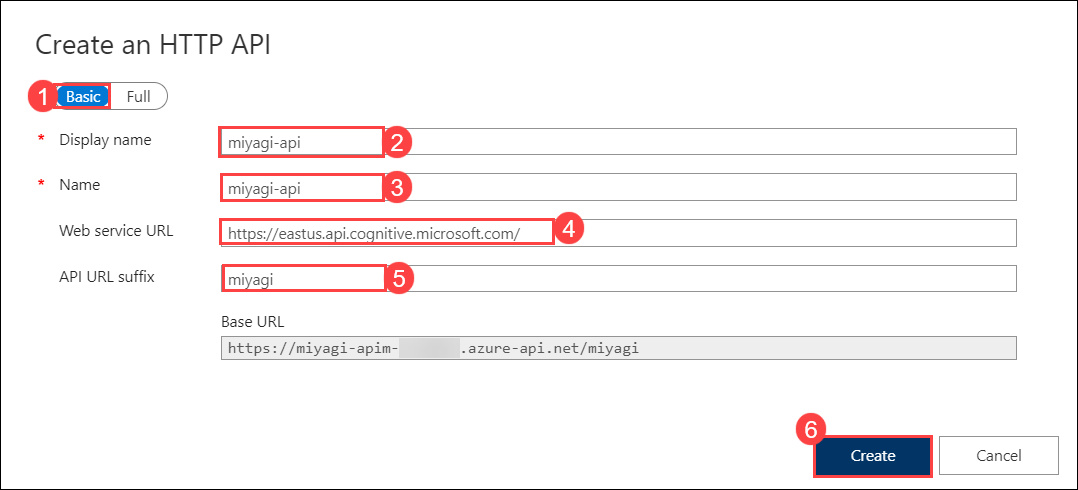
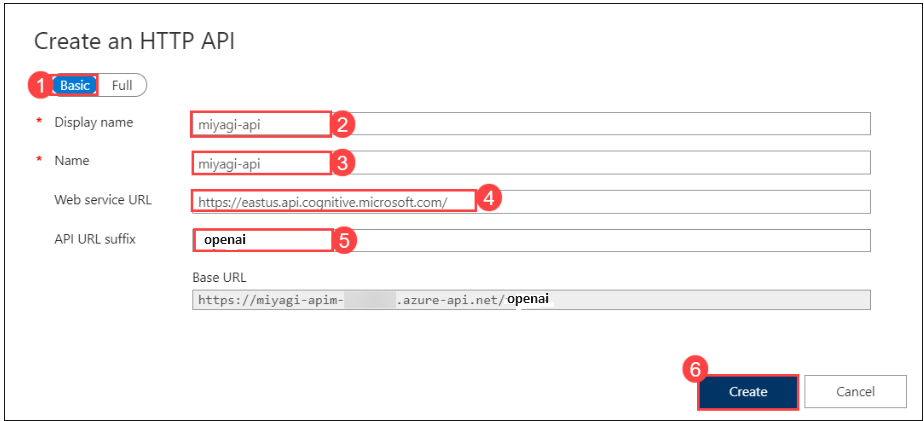
updated documentation

diff --git a/docs/labs/02-build-and-run-miyagi/Lab3.md b/docs/labs/02-build-and-run-miyagi/Lab3.md
@@ -64,11 +64,11 @@ In this lab, you'll be verifying and creating APIs in the deployed API Managemen
    <set-header name="Authorization" exists-action="override">
       <value>@("Bearer " + (string)context.Variables["msi-access-token"])</value>
    </set-header>
-   <set-backend-service base-url="https://<<API_MANAGMENT_URL>>/openai" />
+   <set-backend-service base-url="https://<<OPEN_AI_URL>>/openai" />
 </inbound>
 ```
 
-1. Next navigate to the test tab in API Management next to settings and select **Creates a completion for the chat message**. In the deployment-id filed enter **gpt-35-turbo**. Inside the api-version field enter **2023-05-15** and click send. 
+1. Next navigate to the test tab in API Management next to settings and select **Creates a completion for the chat message**. In the deployment-id filed enter **your chat completions model id**. Inside the api-version field enter **2024-02-01** and click send. 
    ![](./Media/apim-test.png)
 
 2. Scroll down the response and you should see a 200 response and a message back from your OpenAI service.
@@ -95,30 +95,53 @@ In this lab, you'll be verifying and creating APIs in the deployed API Managemen
 5. Now, you need to re-build the docker image for recommendation service by running the below docker command. Make to update the docker image name which was created earlier for recommendation service with the same name.
 
    ```
-   docker build . -t [Docker_Image_Name_Recommendation_Service]
+   docker build . -t miyagi-recommendation
    ```
 
-   ![](./Media/lab3-t2-s4.png)
+   
 
 6. Run following command to ACR login.
 
    > **Note**: Please replace **[ACRname]** with **<inject key="AcrLoginServer" enableCopy="true"/>**, **[uname]** with **<inject key="AcrUsername" enableCopy="true"/>**, and **[password]** with **<inject key="AcrPassword" enableCopy="true"/>**.
 
-    ```
-    docker login [ACRname] -u [uname] -p [password]
-    ```
+   ```
+   az acr login -n [ACRname] -u [uname] -p [password]
+   ```
 
 7. Once you are logged into ACR. Run the below command to push the updated docker image of the recommendation service to the container registry.
 
    **Note**: Make sure to replace **[ACRname]** with **<inject key="AcrLoginServer" enableCopy="true"/>**.
 
    ```
+   docker tag miyagi-recommendation:latest [ACRname]/miyagi-recommendation:latest
+   ```
+
+   ```
    docker push [ACRname]/miyagi-recommendation:latest
    ```
 
-   ![](./Media/lab3-t2-s5.png)
+### Task 4: Redeploy the Application Pods
 
-### Task 4: Revision of Recommendation service from Container App
+**Note**: Use this opion only if you chose 2.ii: Deploy Apps to Azure Kubernets Service.
+
+1. Run the following commands to deploy the application pods.
+   
+   ```
+    kubectl apply -f ./miyagi-recommendation.yaml
+   ```
+2. Delete the pods to force pull of new image.
+   ```
+    kubectl delete pods --all
+   ```
+3. Refresh the Miyagi UI and get the recommendations again. Now the call to Azure Open AI goes through APIM. 
+   You can verify the logs of Recommendations service pod to see the logs of the API call to Open AI. Open a terminal and run the below command to get the logs of the recommendation service pod.
+   ```
+    kubectl logs -f <recommendation-service-pod-name>
+   ```
+   
+### Task 5: Revision of Recommendation service from Container App
+
+**Note**: Use this opion only if you chose 2.i: Deploy Apps to Azure Container Apps.
 
 1. Navigate to Azure portal, open the Resource Group named **miyagi-rg-<inject key="DeploymentID" enableCopy="false"/>**  and select **miyagi-rec-ca-<inject key="DeploymentID" enableCopy="false"/>** Container App from the resources list.
 
@@ -146,7 +169,7 @@ In this lab, you'll be verifying and creating APIs in the deployed API Managemen
 
    ![](./Media/lab3-t3-s5.png)
 
-### Task 5: Setup Event Hub Logging and Validate Input
+### Task 6: Setup Event Hub Logging and Validate Input
 
 1. Navigate to your event hub in the Azure Portal and select the Identity and Access Management tab. Select Add and role-assignment and at the next screen select Azure Event Hubs Data Sender, click next, then the managed identity radio button, and select memebers. In the managed identity drop down you should see your API Management, select the manage identity and click select. Once finished select Review and Assign and save the role assignment.
     ![](./Media/apim-role.png)

diff --git a/docs/labs/02-build-and-run-miyagi/Lab2-A(AKS).md b/docs/labs/02-build-and-run-miyagi/Lab2-A(AKS).md
@@ -163,6 +163,9 @@ In this task, you'll Push miyagi-recommendation images to acr.
    ```
    docker tag miyagi-recommendation:latest [ACRname]/miyagi-recommendation:latest
    ```
+   ```
+   docker tag miyagi-ui:latest [ACRname]/miyagi-ui:latest
+   ```
 
 1. Run the following command to push the image to the container registry.
 
@@ -170,6 +173,9 @@ In this task, you'll Push miyagi-recommendation images to acr.
 
    ```
    docker push [ACRname]/miyagi-recommendation:latest
+   ```
+   ```
+   docker push [ACRname]/miyagi-ui:latest
    ```
 
    ![](./Media/task2-6.png)

diff --git a/docs/labs/02-build-and-run-miyagi/Lab1.md b/docs/labs/02-build-and-run-miyagi/Lab1.md
@@ -178,7 +178,7 @@ In this lab, you'll setup and configure Miyagi app locally.
 7. After updating the values save the file by pressing **CTRL + S**.
    
 8. Create a new file named .env in miyagi/sandbox/usecases/rag/dotnet
-9.  Copy paste the contents of rag/.env.local.example into .env and save the file
+9.  Copy paste the contents of rag/.env.example into .env and save the file
 10. Update the values which you recorded in previous steps into .env file and save the file
 
    >**Note**: Please refer the below image to know how to update the values in .env files.
